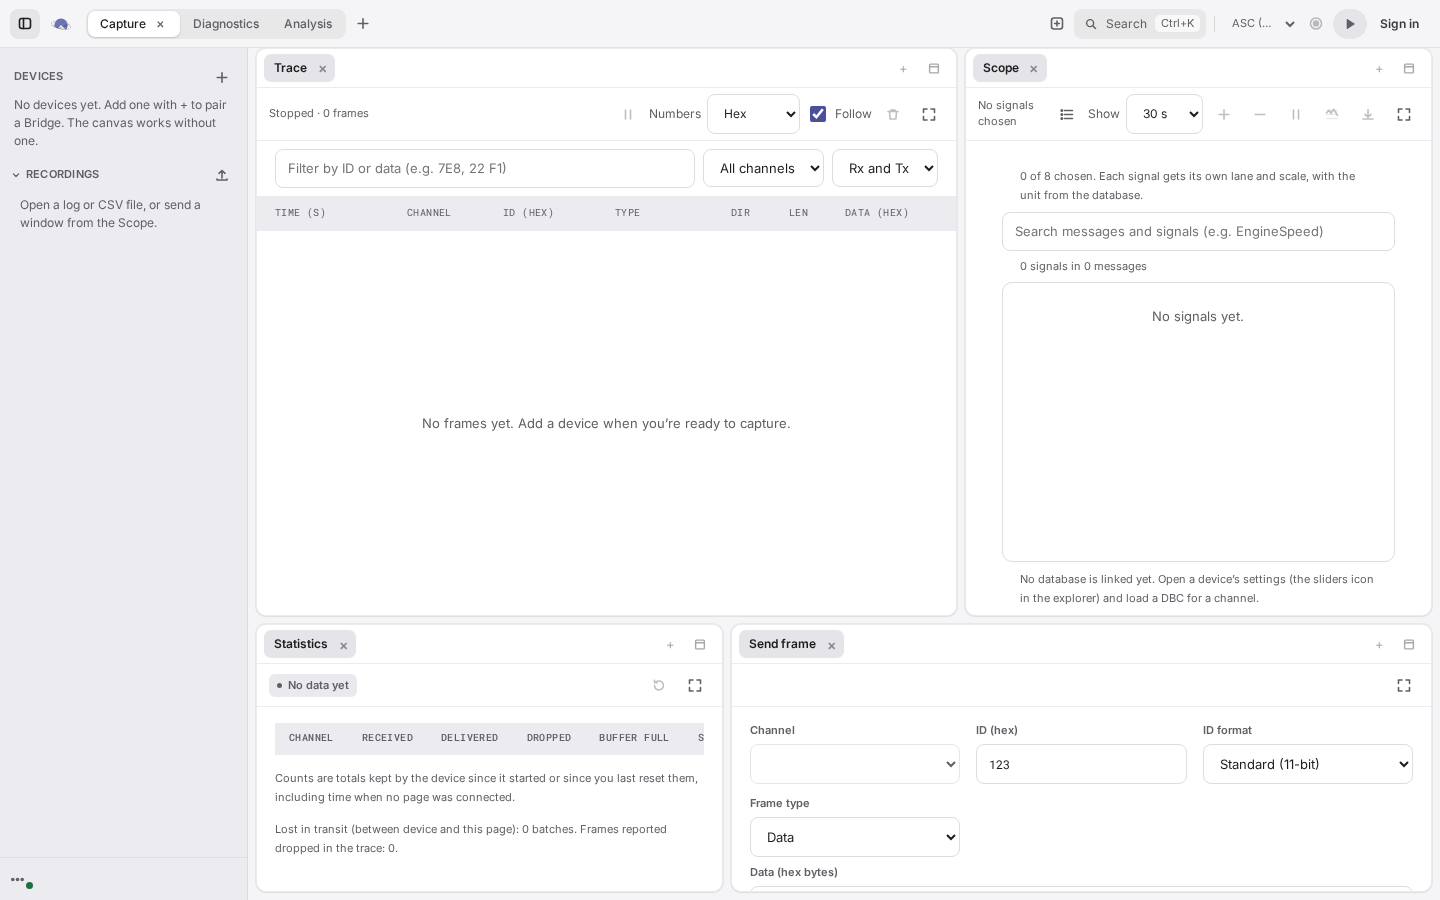
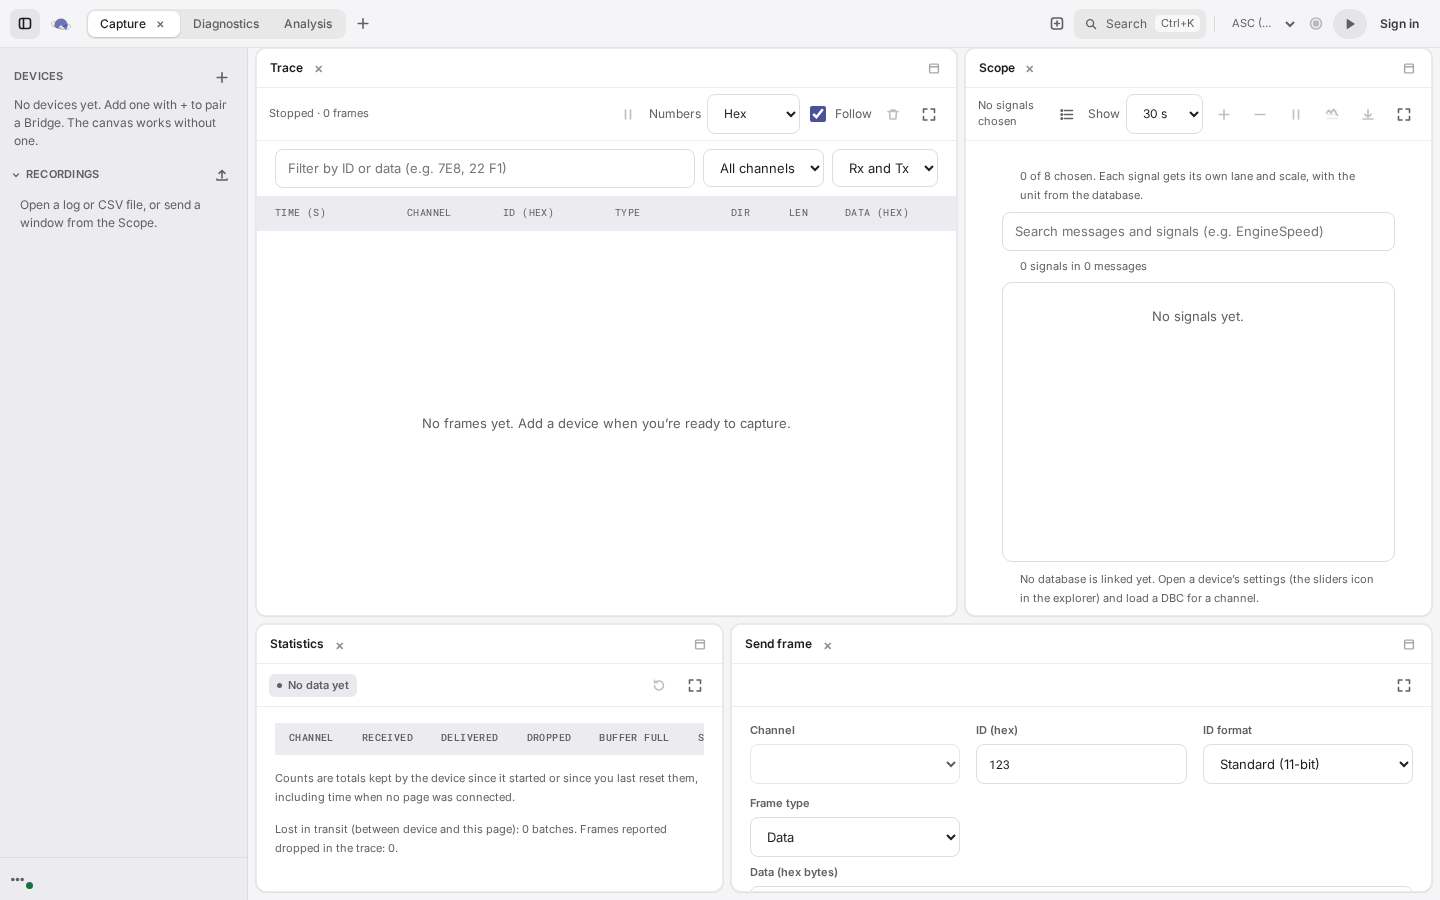
Tile new panels into the canvas, focus the palette search, fill the screen on tablets
Adding a panel splits the area with the most room instead of becoming a tab behind another panel.
The per-group + button is gone; a panel alone in its area shows a title, not a tab. Ctrl K focuses
its search box (the Close button was taking focus). The old 900 px rules that let the shell
collapse to its content are removed, so a tablet uses the whole screen.

diff --git a/src/workspace/Dock.tsx b/src/workspace/Dock.tsx
@@ -12,7 +12,6 @@ interface DockProps {
   panels: Record<string, PanelInstance>;
   focusedGroup: string | null;
   onFocusGroup: (id: string) => void;
-  onAddPanel: (groupId: string) => void;
 }
 
 /** DOM ids: the first panel of a type keeps the id it always had (#panel-trace); later ones use their own id. */
@@ -28,7 +27,7 @@ export function domIds(root: LayoutNode, panels: Record<string, PanelInstance>):
   return out;
 }
 
-export function Dock({ root, panels, focusedGroup, onFocusGroup, onAddPanel }: DockProps) {
+export function Dock({ root, panels, focusedGroup, onFocusGroup }: DockProps) {
   const store = useProjectStore();
   const [maximized, setMaximized] = useState<string | null>(null);
   const ids = domIds(root, panels);
@@ -40,7 +39,7 @@ export function Dock({ root, panels, focusedGroup, onFocusGroup, onAddPanel }: D
   }, [maximized]);
   // A maximized group is drawn over the others, which stay mounted (so a paused trace or a zoomed plot keeps its state) but inert.
   const active = maximized && groupById(root, maximized) ? maximized : null;
-  const props = { store, panels, ids, focusedGroup, onFocusGroup, onAddPanel, maximized: active, setMaximized };
+  const props = { store, panels, ids, focusedGroup, onFocusGroup, maximized: active, setMaximized };
   return <div className="bw-workspace" data-testid="dock"><NodeView node={root} {...props} /></div>;
 }
 
@@ -50,7 +49,6 @@ interface Shared {
   ids: Record<string, string>;
   focusedGroup: string | null;
   onFocusGroup: (id: string) => void;
-  onAddPanel: (groupId: string) => void;
   maximized: string | null;
   setMaximized: (id: string | null) => void;
 }
@@ -108,7 +106,7 @@ function SplitChild({ share, children }: { share: number; children: React.ReactN
   return <div className="bw-split-child" style={style}>{children}</div>;
 }
 
-function GroupView({ group, store, panels, ids, focusedGroup, onFocusGroup, onAddPanel, maximized, setMaximized }: { group: GroupNode } & Shared) {
+function GroupView({ group, store, panels, ids, focusedGroup, onFocusGroup, maximized, setMaximized }: { group: GroupNode } & Shared) {
   const menu = useContextMenu('Panel');
   const [renaming, setRenaming] = useState<string | null>(null);
   const focused = focusedGroup === group.id;
@@ -159,7 +157,7 @@ function GroupView({ group, store, panels, ids, focusedGroup, onFocusGroup, onAd
 
   const setFocus = useCallback(() => onFocusGroup(group.id), [onFocusGroup, group.id]);
   return (
-    <section className={`bw-group ${focused ? 'is-focused' : ''} ${maximized === group.id ? 'is-maximized' : ''}`} inert={maximized !== null && maximized !== group.id ? true : undefined} data-dock-group={group.id} onPointerDownCapture={setFocus} onFocusCapture={setFocus} aria-label="Panel group">
+    <section className={`bw-group ${focused ? 'is-focused' : ''} ${maximized === group.id ? 'is-maximized' : ''}`} inert={maximized !== null && maximized !== group.id ? true : undefined} data-dock-group={group.id} data-single={group.tabs.length === 1} onPointerDownCapture={setFocus} onFocusCapture={setFocus} aria-label="Panel group">
       <div className="bw-group-tabs">
         <div className="bw-tablist" role="tablist" aria-label="Panels in this group">
           {group.tabs.map((pid) => {
@@ -190,7 +188,6 @@ function GroupView({ group, store, panels, ids, focusedGroup, onFocusGroup, onAd
           })}
         </div>
         <div className="bw-group-tools">
-          <button type="button" className="bw-icon-button" aria-label="Add a panel to this group" title="Add a panel" onClick={() => onAddPanel(group.id)}>+</button>
           <button type="button" className="bw-icon-button" aria-pressed={maximized === group.id} aria-label={maximized === group.id ? 'Restore this group' : 'Maximize this group'} title={maximized === group.id ? 'Restore (Esc)' : 'Maximize'} onClick={() => setMaximized(maximized === group.id ? null : group.id)}>
             {maximized === group.id ? <IconRestore /> : <IconMaximize />}
           </button>

diff --git a/tests/workspace-ui.test.tsx b/tests/workspace-ui.test.tsx
@@ -118,10 +118,12 @@ describe('panels', () => {
 
   it('more than one panel of a type can be on a canvas, and the first keeps its familiar id', () => {
     mount();
-    fireEvent.click(screen.getAllByRole('button', { name: 'Add a panel to this group' })[0]!);
+    fireEvent.click(screen.getByRole('button', { name: 'Add panel' }));
     fireEvent.click(within(screen.getByRole('dialog', { name: 'Add a panel' })).getByRole('button', { name: /^Trace/ }));
     expect(document.querySelectorAll('#panel-trace')).toHaveLength(1);
+    // The new panel is tiled into the canvas beside the others, not hidden behind a tab.
     expect(screen.getAllByRole('tab', { name: 'Trace' })).toHaveLength(2);
+    expect(screen.getAllByRole('tab', { name: 'Trace' }).every((t) => t.closest('[data-single]')?.getAttribute('data-single') === 'true')).toBe(true);
   });
 
   it('a tab group can be maximized and restored with Escape', () => {
@@ -135,12 +137,12 @@ describe('panels', () => {
   });
 
   it('tabs in a group move with the arrow keys', () => {
-    mount();
+    const { project } = mount();
     fireEvent.click(screen.getByRole('button', { name: 'New canvas' }));
     fireEvent.click(within(screen.getByRole('dialog', { name: 'New canvas' })).getByRole('button', { name: /Transmit and test/ }));
     const stats = screen.getByRole('tab', { name: 'Statistics' });
-    fireEvent.click(within(stats.closest('section')!).getByRole('button', { name: 'Add a panel to this group' }));
-    fireEvent.click(within(screen.getByRole('dialog', { name: 'Add a panel' })).getByRole('button', { name: /^Scope/ }));
+    // Panels share a group (and so get tabs) only when one is dragged onto another, or added to that group by the store.
+    act(() => project.addPanel('plot', stats.closest('section')!.getAttribute('data-dock-group')!));
     expect(screen.getByRole('tab', { name: 'Scope' })).toHaveAttribute('aria-selected', 'true');
     fireEvent.keyDown(screen.getByRole('tab', { name: 'Scope' }), { key: 'ArrowRight' });
     expect(screen.getByRole('tab', { name: 'Statistics' })).toHaveAttribute('aria-selected', 'true');
@@ -222,5 +224,25 @@ describe('command palette', () => {
     expect(screen.getByText('No command matches.')).toBeVisible();
     fireEvent.keyDown(screen.getByRole('dialog', { name: 'Commands' }), { key: 'Escape' });
     expect(screen.queryByRole('dialog', { name: 'Commands' })).toBeNull();
+  });
+});
+
+describe('adding panels', () => {
+  it('tiles every new panel into the canvas so all of them are in view', () => {
+    mount(memory(), false);
+    fireEvent.click(within(screen.getByTestId('empty-canvas')).getByRole('button', { name: /^Trace/ }));
+    fireEvent.click(screen.getByRole('button', { name: 'Add panel' }));
+    fireEvent.click(within(screen.getByRole('dialog', { name: 'Add a panel' })).getByRole('button', { name: /^Scope/ }));
+    fireEvent.click(screen.getByRole('button', { name: 'Add panel' }));
+    fireEvent.click(within(screen.getByRole('dialog', { name: 'Add a panel' })).getByRole('button', { name: /^Analyzer/ }));
+    expect(document.querySelectorAll('[data-dock-group]')).toHaveLength(3);
+    expect(screen.getAllByRole('tab')).toHaveLength(3);
+    for (const name of ['Trace', 'Scope', 'Analyzer']) expect(screen.getByRole('region', { name })).toBeVisible();
+  });
+
+  it('puts the keyboard in the search box when the command palette opens', () => {
+    mount();
+    fireEvent.keyDown(document, { key: 'k', ctrlKey: true });
+    expect(screen.getByRole('combobox', { name: 'Search commands' })).toHaveFocus();
   });
 });

diff --git a/src/workspace/WorkspaceCanvas.tsx b/src/workspace/WorkspaceCanvas.tsx
@@ -108,7 +108,7 @@ export function WorkspaceUiProvider({ children, onToggleExplorer, extraCommands 
 
   const focus = focusedGroup && canvas.root && groupById(canvas.root, focusedGroup) ? focusedGroup : undefined;
   const pick = (t: PanelType) => {
-    const pid = store.addPanel(t, gallery?.groupId ?? focus);
+    const pid = store.addPanel(t, gallery?.groupId);
     setGallery(null);
     if (pid) setPhonePanel(pid); else toast.show('This canvas is full.');
   };
@@ -138,7 +138,7 @@ export function WorkspaceUiProvider({ children, onToggleExplorer, extraCommands 
     { label: 'Rename this canvas…', group: 'Canvas', run: () => setRenaming(true) },
     { label: 'Duplicate this canvas', group: 'Canvas', run: () => { store.duplicateCanvas(project.active); } },
     { label: 'Add panel…', group: 'Panel', hint: combo(ALT, 'P'), run: () => setGallery({}) },
-    ...PANEL_TYPES.map((t) => ({ label: `Add panel: ${PANEL_DEFS[t].title}`, group: 'Panel', run: () => { store.addPanel(t, focus); } })),
+    ...PANEL_TYPES.map((t) => ({ label: `Add panel: ${PANEL_DEFS[t].title}`, group: 'Panel', run: () => { store.addPanel(t); } })),
     { label: 'Show or hide the explorer', group: 'View', hint: combo(MOD, 'B'), run: onToggleExplorer },
     { label: 'Add a device', group: 'Device', run: () => hub.addDevice() },
     ...(slots.length ? [{ label: 'Start capture on all devices', group: 'Capture', run: () => void hub.startAll() }, { label: 'Stop capture on all devices', group: 'Capture', run: () => void hub.stopAll() }] : []),
@@ -291,7 +291,7 @@ export function CanvasView() {
   if (phoneGroup) {
     return (
       <>
-        <Dock root={phoneGroup} panels={project.panels} focusedGroup={null} onFocusGroup={() => undefined} onAddPanel={(id) => ui.openGallery(id)} />
+        <Dock root={phoneGroup} panels={project.panels} focusedGroup={null} onFocusGroup={() => undefined} />
         <nav className="bw-phone-switcher" aria-label="Panels on this canvas">
           <button type="button" className="bw-icon-button" onClick={ui.toggleExplorer} aria-label="Explorer" title="Explorer"><IconSidebar /></button>
           <div className="bw-phone-chips">
@@ -304,5 +304,5 @@ export function CanvasView() {
       </>
     );
   }
-  return <Dock root={canvas.root} panels={project.panels} focusedGroup={ui.focusedGroup} onFocusGroup={ui.setFocusedGroup} onAddPanel={(id) => ui.openGallery(id)} />;
+  return <Dock root={canvas.root} panels={project.panels} focusedGroup={ui.focusedGroup} onFocusGroup={ui.setFocusedGroup} />;
 }

diff --git a/src/workspace/project.ts b/src/workspace/project.ts
@@ -1,7 +1,7 @@
 // A saved workspace (called a Project in the code): named canvases, each a dock layout of panels, and the panels' settings. It is
 // browser-owned convenience state: it never holds device addresses, tokens or captured data. It is not the Plotune account project
 // that devices are paired to; saving a workspace into that project is the V2.5 step (see docs/workspace-v2.md).
-import { group, groupById, insertPanel, movePanel as moveInTree, newId, normalize, panelsIn, parseLayout, remap, removePanel, resizeSplit, setActiveTab, split, type DropZone, type LayoutNode } from './layout';
+import { autoPlace, group, groupById, insertPanel, movePanel as moveInTree, newId, normalize, panelsIn, parseLayout, remap, removePanel, resizeSplit, setActiveTab, split, type DropZone, type LayoutNode } from './layout';
 
 export const PROJECT_VERSION = 2;
 export const PROJECTS_KEY = 'bw.projects';
@@ -299,8 +299,9 @@ export class ProjectStore {
     if (!c || Object.keys(this.project.panels).length >= MAX_PANELS || panelsIn(c.root).length >= 40) return null;
     const pid = newId('p');
     const target = (groupId && groupById(c.root, groupId)) || null;
-    const first = target ?? (c.root ? findFirstGroup(c.root) : null);
-    const root = c.root && first ? insertPanel(c.root, first.id, 'center', pid) : group([pid]);
+    // Named group: a tab in it. Otherwise the panel is tiled into the canvas, beside or under the group with the most room.
+    const place = target ? { groupId: target.id, zone: 'center' as const } : autoPlace(c.root);
+    const root = c.root && place ? insertPanel(c.root, place.groupId, place.zone, pid) : group([pid]);
     this.commit({ ...this.project, canvases: this.project.canvases.map((x) => (x.id === c.id ? { ...x, root } : x)), panels: { ...this.project.panels, [pid]: { type, ...init } } });
     return pid;
   }
@@ -337,6 +338,3 @@ export class ProjectStore {
   setPanelConfig(panelId: string, config: Record<string, unknown>): void { this.updatePanel(panelId, { config }); }
 }
 
-function findFirstGroup(n: LayoutNode): LayoutNode & { kind: 'group' } {
-  return n.kind === 'group' ? n : findFirstGroup(n.children[0]!);
-}

diff --git a/tests/workspace-layout.test.ts b/tests/workspace-layout.test.ts
@@ -1,5 +1,5 @@
 import { describe, expect, it } from 'vitest';
-import { group, groupById, groupOf, insertPanel, movePanel, normalize, panelsIn, parseLayout, removePanel, resizeSplit, setActiveTab, split, type LayoutNode, type SplitNode } from '../src/workspace/layout';
+import { autoPlace, group, groupById, groupOf, insertPanel, movePanel, normalize, panelsIn, parseLayout, removePanel, resizeSplit, setActiveTab, split, type LayoutNode, type SplitNode } from '../src/workspace/layout';
 
 const base = (): LayoutNode => split('row', [group(['trace'], undefined, 'g1'), split('col', [group(['plot'], undefined, 'g2'), group(['stats', 'send'], 'stats', 'g3')], [0.5, 0.5], 's2')], [0.6, 0.4], 's1');
 
@@ -96,5 +96,23 @@ describe('reading a layout from storage', () => {
   it('repairs bad sizes instead of failing', () => {
     const r = parseLayout({ kind: 'split', dir: 'row', sizes: [-1, 'x'], children: [{ kind: 'group', tabs: ['trace'], active: 'trace' }, { kind: 'group', tabs: ['plot'], active: 'plot' }] }, known) as SplitNode;
     expect(r.sizes[0]).toBeCloseTo(0.5);
+  });
+});
+
+describe('autoPlace', () => {
+  it('splits the roomiest group along its longer side, so panels end up side by side and then in a grid', () => {
+    expect(autoPlace(null)).toBeNull();
+    let root: LayoutNode | null = group(['a']);
+    const first = autoPlace(root)!;
+    expect(first.zone).toBe('right'); // a wide canvas: beside
+    root = insertPanel(root, first.groupId, first.zone, 'b');
+    const second = autoPlace(root)!; // two halves, each taller than wide: under
+    expect(second.zone).toBe('bottom');
+    root = insertPanel(root, second.groupId, second.zone, 'c');
+    expect(panelsIn(root).sort()).toEqual(['a', 'b', 'c']);
+    // The group left whole (the biggest) is split next.
+    const third = autoPlace(root)!;
+    expect(root!.kind).toBe('split');
+    expect(third.groupId).toBeTruthy();
   });
 });

diff --git a/src/workspace/layout.ts b/src/workspace/layout.ts
@@ -110,6 +110,25 @@ export function insertPanel(node: LayoutNode | null, groupId: string, zone: Drop
   return { ...node, children: node.children.map((c) => insertPanel(c, groupId, zone, panelId) as LayoutNode) };
 }
 
+/**
+ * Where a new panel goes so that every panel stays in view: beside or under the group with the most room, along its longer side.
+ * `aspect` is the canvas' width over its height; the sizes of the splits give each group its share of the area.
+ */
+export function autoPlace(root: LayoutNode | null, aspect = 1.7): { groupId: string; zone: 'right' | 'bottom' } | null {
+  if (!root) return null;
+  let best: { groupId: string; zone: 'right' | 'bottom'; area: number } | null = null;
+  const walk = (n: LayoutNode, w: number, h: number): void => {
+    if (n.kind === 'group') {
+      const area = w * h;
+      if (!best || area > best.area + 1e-9) best = { groupId: n.id, zone: w >= h ? 'right' : 'bottom', area };
+      return;
+    }
+    n.children.forEach((c, i) => (n.dir === 'row' ? walk(c, w * n.sizes[i]!, h) : walk(c, w, h * n.sizes[i]!)));
+  };
+  walk(root, aspect, 1);
+  return best ? { groupId: (best as { groupId: string }).groupId, zone: (best as { zone: 'right' | 'bottom' }).zone } : null;
+}
+
 /** Moves a panel to a group or its edge. Dropping the only tab of a group onto itself is a no-op. */
 export function movePanel(root: LayoutNode | null, panelId: string, groupId: string, zone: DropZone): LayoutNode | null {
   const source = groupOf(root, panelId);

diff --git a/src/styles/app.css b/src/styles/app.css
@@ -1095,19 +1095,6 @@ input[aria-invalid='true'] {
 
 /* ---- Small screens ---------------------------------------------------------------------------- */
 @media (max-width: 900px) {
-  .bw-shell {
-    display: block;
-    height: auto;
-  }
-  .bw-setup {
-    border-right: 0;
-    border-bottom: 1px solid var(--color-chrome-border);
-  }
-  .bw-main {
-    overflow: visible;
-    padding-left: 16px;
-    padding-right: 16px;
-  }
   .bw-grid,
   .bw-grid[data-page='capture'],
   .bw-grid[data-page='capture'][data-plot] {
@@ -1117,10 +1104,6 @@ input[aria-invalid='true'] {
   }
   .bw-grid[data-page='capture'] > .bw-tile-trace {
     grid-column: auto;
-  }
-  .bw-trace-scroll {
-    flex: none;
-    height: 360px;
   }
   .bw-topbar {
     padding: 0 12px;
@@ -2278,3 +2261,7 @@ select.bw-format-select:hover { background-color: var(--icon-hover-bg); }
 .bw-tree-signal label > span { overflow: hidden; text-overflow: ellipsis; white-space: nowrap; min-width: 0; }
 .bw-tree-signal:hover { background: var(--color-neutral-tint); }
 .bw-tree .bw-empty { position: absolute; inset: 0; padding: 24px 12px; }
+
+/* A group with one panel shows its name as a title, not as a tab: tabs appear only where panels share a group. */
+.bw-group[data-single='true'] .bw-tab > button[role='tab'],
+.bw-group[data-single='true'] .bw-tab:hover > button[role='tab'] { background: transparent; font-weight: 600; color: var(--color-ink); padding-left: 6px; }

diff --git a/src/workspace/ui.tsx b/src/workspace/ui.tsx
@@ -10,7 +10,8 @@ export function Modal({ title, onClose, children, footer, wide }: { title: strin
   const titleId = useId();
   useEffect(() => {
     const before = document.activeElement as HTMLElement | null;
-    const first = ref.current?.querySelector<HTMLElement>('[data-autofocus], input, textarea, select, button');
+    // The field marked for focus first (the Close button comes earlier in the document, so one selector list would pick it).
+    const first = ref.current?.querySelector<HTMLElement>('[data-autofocus]') ?? ref.current?.querySelector<HTMLElement>('input, textarea, select') ?? ref.current?.querySelector<HTMLElement>('button');
     (first ?? ref.current)?.focus();
     return () => before?.focus?.();
   }, []);

diff --git a/docs/workspace-v2.md b/docs/workspace-v2.md
@@ -15,6 +15,7 @@ The first screen is a **blank canvas**, with three small starting points (Trace,
 - **Recordings are data sources too.** The upload icon in the explorer (or ⌘K "Open a log or CSV file…") opens CSV, Vector ASC, BLF or candump files. A log of CAN frames first opens a dialog like a device's settings: its channels (with frame counts), and a database for each. Channels without one stay raw. A log can have any number of channels (a 7-channel log lists seven). Its **settings** stay available from the explorer and from the Analyzer toolbar. Signals are decoded when they are added to a plot, so a log with millions of frames and thousands of signals stays light. Parquet is planned (V3).
 - **Choosing signals at scale.** The Scope and the Analyzer choose signals in a searchable tree grouped by message and source, built for databases with thousands of signals: only the rows in view are drawn, messages are closed until a search opens them, and the search matches message, source and signal names.
 - **Canvases** are the tabs. Click to switch, double-click or F2 to rename, right-click (or the menu key) for Duplicate, Move left/right and Delete (with Undo). **+** adds a canvas: blank, from a template, or a copy of the current one. A canvas is closed with the × on its tab (or Delete, or the menu), with Undo; the last one stays. A fresh install has one blank canvas.
+- **Panels tile.** Adding a panel (Add panel, the starters, ⌘K, opening a recording) splits the canvas: the new panel goes beside or under the panel with the most room, along its longer side, so every panel stays in view. A panel alone in its area shows its name as a title. Tabs appear only where panels share an area, which happens when you drag one onto another.
 - **Panels** are tabbed groups. Drag a tab to the middle of another group to add it as a tab, or to an edge to split. Drag a divider to resize; with a divider focused, the arrow keys resize. Right-click a tab (or press the menu key) for Rename, Split right/down, Maximize and Close. **Add panel** opens a gallery; the **+** on a group adds to that group. Panel tools (pause, clear, zoom, download…) are icons.
 - **Panels that act on one device** (Statistics, Send frame) can be pointed at any connected device when more than one is connected. Trace already shows every device or one. Diagnostics follow the selected device and show a one-line summary of their link, with an icon that opens its settings.
 - **Scope** is the live plot (the old Plot): light and fast, for watching. **Analyze this window** keeps what is on screen as a **recording** and opens it in the **Analyzer**.
